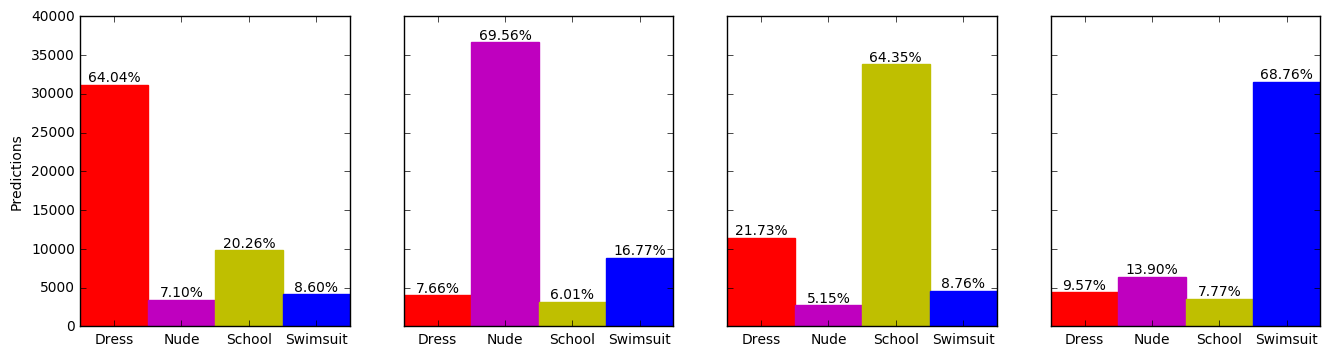
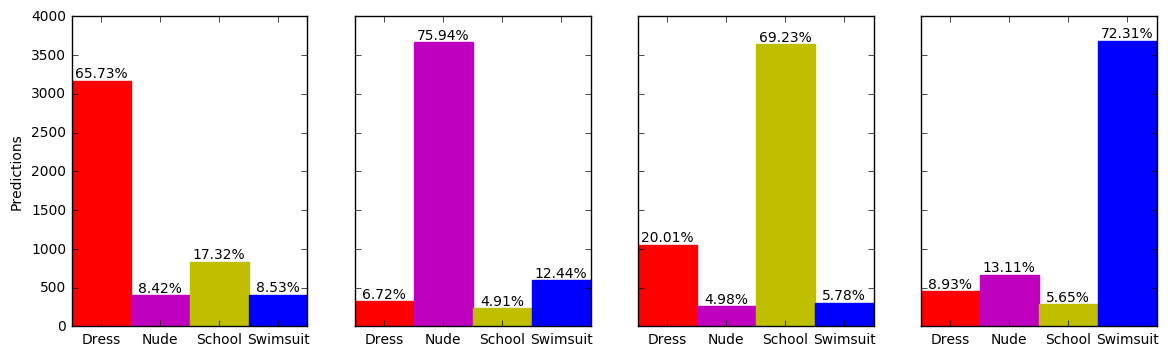
Wrote text fitting to current weights file.

diff --git a/waifunet/templates/index.html b/waifunet/templates/index.html
@@ -29,10 +29,10 @@
             </form>
 
             <h2 class="content-subhead">Current Accuracy</h2>
-            <div>At the moment the accuracy is around 65%. Meaning two out of three pictures should be correctly categorized.</div>
+            <div>The accuracy is at least 70%. Maybe more because with some other testset I got over 90% accuracy.</div>
             <figure>
                 <img class="pure-img-responsive" src="{{ url_for('static', filename='images/statistics.png') }}">
-                <figcaption>Predictions on a testset with 200,000 images.</figcaption>
+                <figcaption>Predictions on a testset with 20,000 images.</figcaption>
             </figure>
             
             <h2 class="content-subhead">Examples from the dataset</h2>
